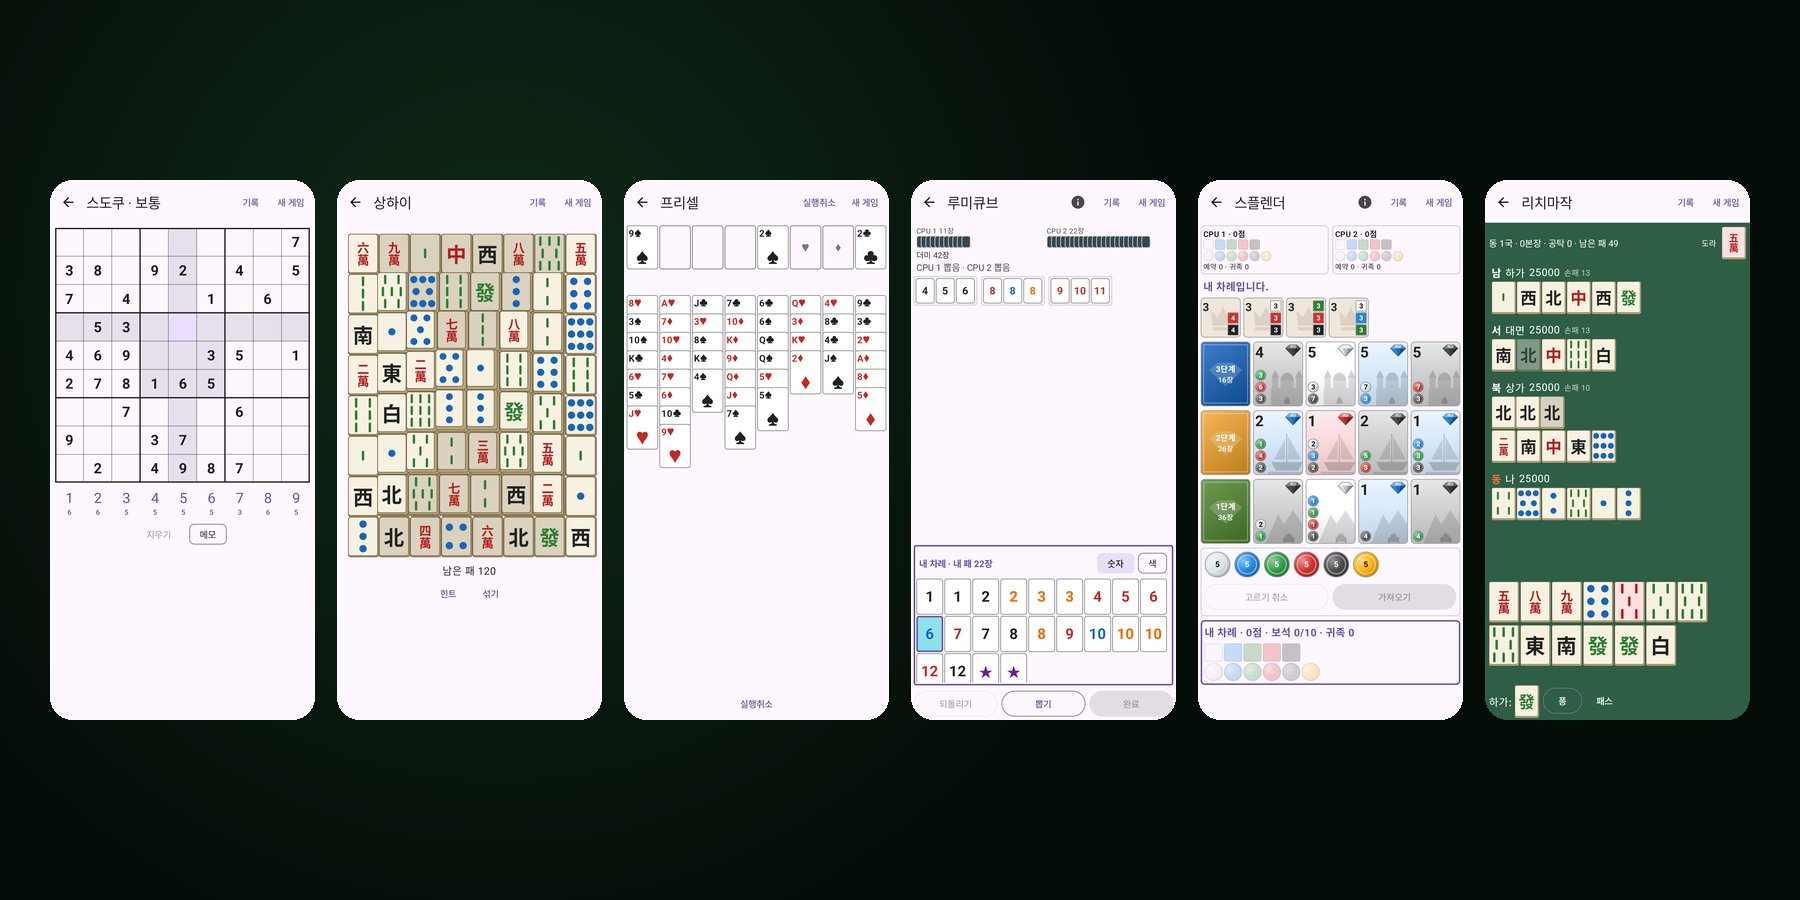
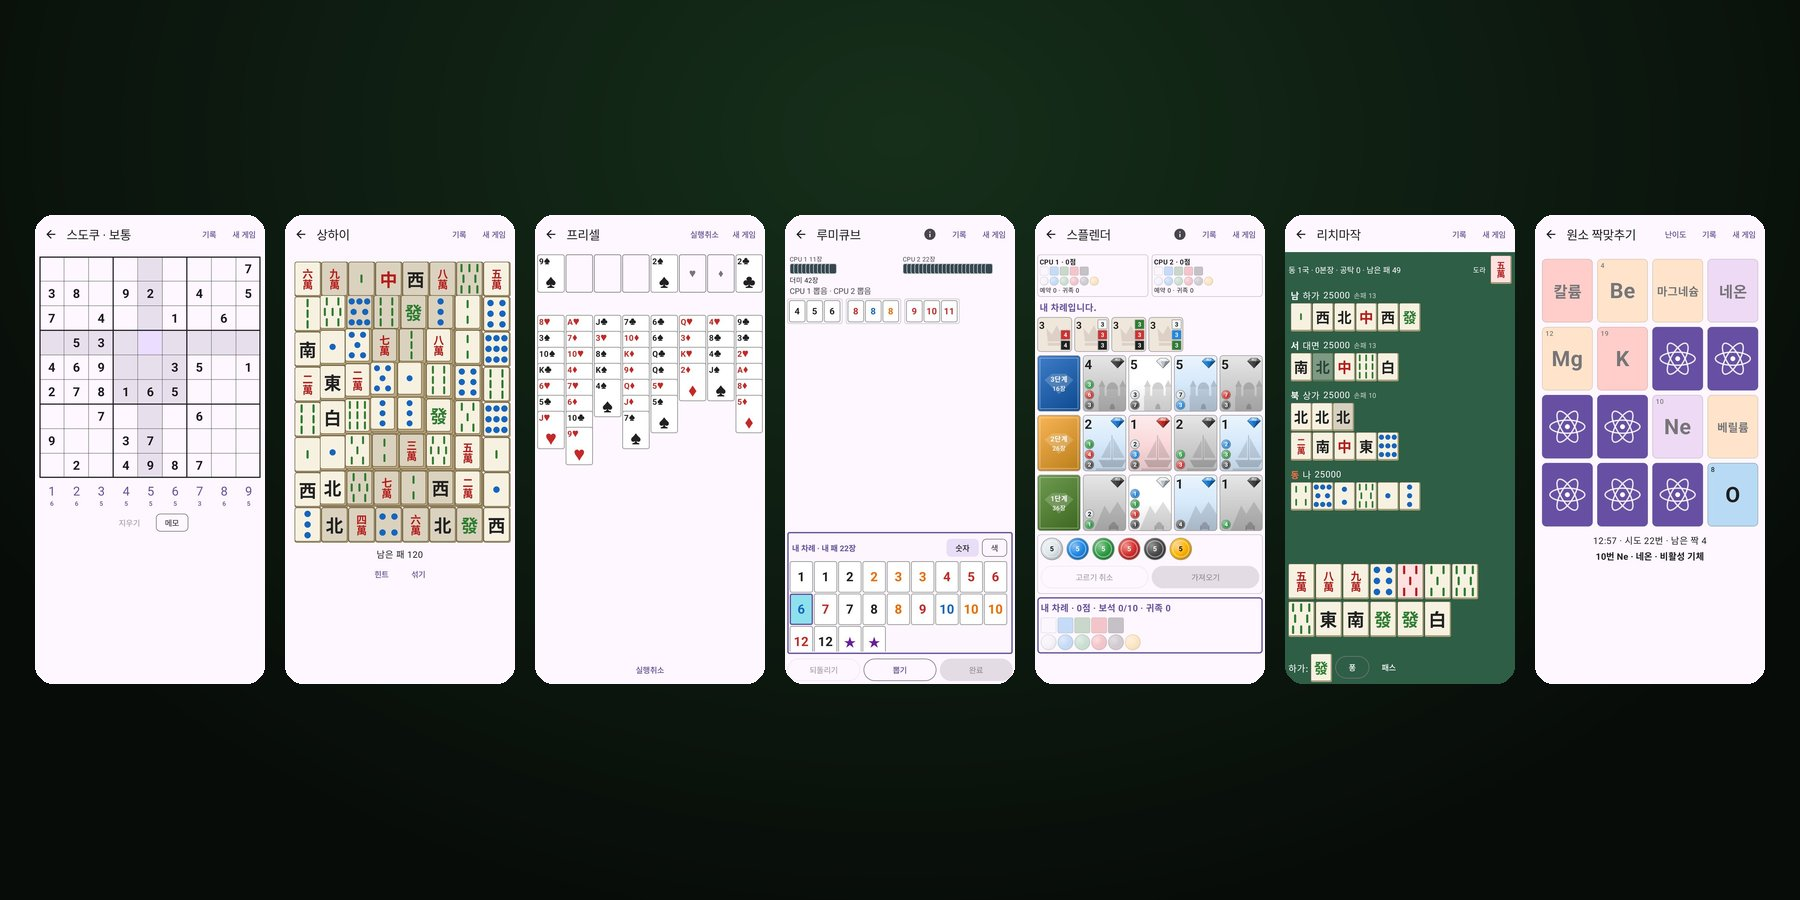
게임 모음에 원소 짝맞추기 스크린샷과 소개 추가

diff --git a/_projects/ja/mobile-games.md b/_projects/ja/mobile-games.md
@@ -1,6 +1,6 @@
 ---
 title: ゲーム集
-tagline: 数独 · 上海 · フリーセル · ラミィキューブ · 宝石の煌き · 麻雀をひとつにまとめた Android ゲーム
+tagline: 数独 · 上海 · フリーセル · ラミィキューブ · 宝石の煌き · 麻雀 · 元素神経衰弱をひとつにまとめた Android ゲーム
 repository: Kyeongrok/mobile-games
 banner: /assets/images/mobile-games.jpg
 screenshots:
@@ -16,6 +16,8 @@ screenshots:
     caption: ラミィキューブ
   - src: /assets/images/mobile-games/splendor.jpg
     caption: 宝石の煌き
+  - src: /assets/images/mobile-games/elements.jpg
+    caption: 元素神経衰弱
 order: 1
 category: mobile
 downloads:
@@ -27,7 +29,7 @@ downloads:
 
 ## 概要
 
-ひとりで遊べるパズル・ボードゲーム 6 種類をまとめた Android アプリです。広告もインターネット接続も不要です。
+ひとりで遊べるパズル・ボードゲーム 7 種類をまとめた Android アプリです。広告もインターネット接続も不要です。
 途中のゲームは自動で保存され、アプリを開き直すと続きから遊べます。
 
 ## ゲーム
@@ -38,6 +40,7 @@ downloads:
 - **ラミィキューブ** — コンピューター 1〜3 人と対戦、チュートリアルと練習モード
 - **宝石の煌き（スプレンダー）** — 宝石を集めてカードを買うコンピューター対戦
 - **麻雀** — コンピューター 3 人と打つ 4 人打ちリーチ麻雀
+- **元素神経衰弱** — 伏せたカードから元素記号と名前（韓国語）のペアを探す、元素の範囲とカード枚数を選択
 
 ## インストール方法
 

diff --git a/_projects/mobile-games.md b/_projects/mobile-games.md
@@ -1,6 +1,6 @@
 ---
 title: 게임 모음
-tagline: 스도쿠 · 상하이 · 프리셀 · 루미큐브 · 스플렌더 · 리치마작을 한 앱에서 즐기는 Android 게임
+tagline: 스도쿠 · 상하이 · 프리셀 · 루미큐브 · 스플렌더 · 리치마작 · 원소 짝맞추기를 한 앱에서 즐기는 Android 게임
 repository: Kyeongrok/mobile-games
 banner: /assets/images/mobile-games.jpg
 screenshots:
@@ -16,6 +16,8 @@ screenshots:
     caption: 루미큐브
   - src: /assets/images/mobile-games/splendor.jpg
     caption: 스플렌더
+  - src: /assets/images/mobile-games/elements.jpg
+    caption: 원소 짝맞추기
 order: 1
 category: mobile
 downloads:
@@ -27,7 +29,7 @@ downloads:
 
 ## 소개
 
-혼자서 즐기는 퍼즐·보드게임 여섯 가지를 모은 Android 앱입니다. 광고도, 인터넷 연결도 필요 없습니다.
+혼자서 즐기는 퍼즐·보드게임 일곱 가지를 모은 Android 앱입니다. 광고도, 인터넷 연결도 필요 없습니다.
 진행 중인 판은 자동으로 저장되어 앱을 다시 켜면 이어서 할 수 있습니다.
 
 ## 게임
@@ -38,6 +40,7 @@ downloads:
 - **루미큐브** — 컴퓨터 1~3명과 대결, 튜토리얼과 연습 모드
 - **스플렌더** — 보석을 모아 카드를 사는 컴퓨터 대전
 - **리치마작** — 컴퓨터 3명과 치는 4인 일본식 마작
+- **원소 짝맞추기** — 뒤집힌 카드에서 원소기호와 이름의 짝 찾기, 원소 범위와 카드 수 선택
 
 ## 설치 방법
 
